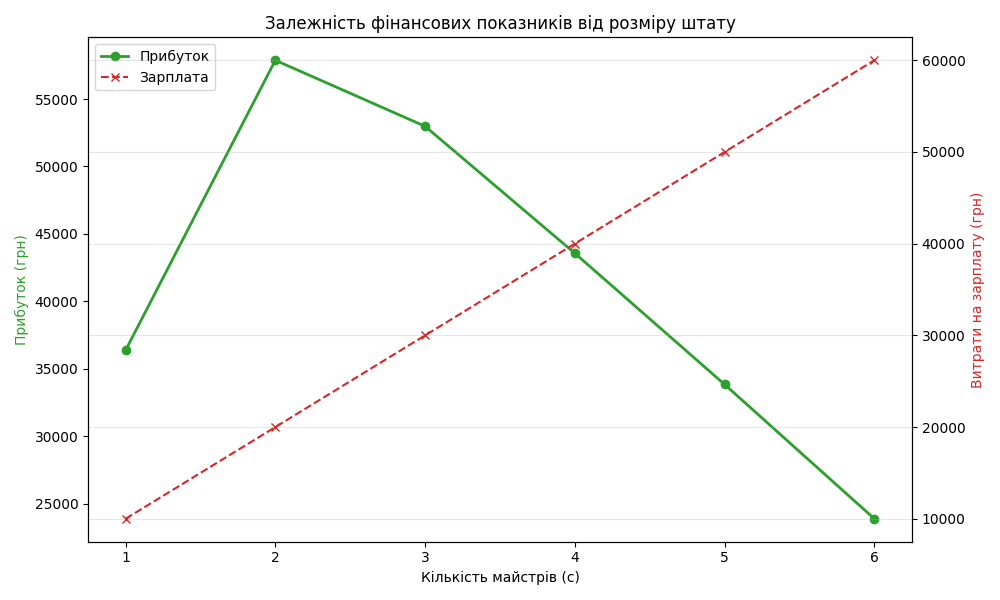
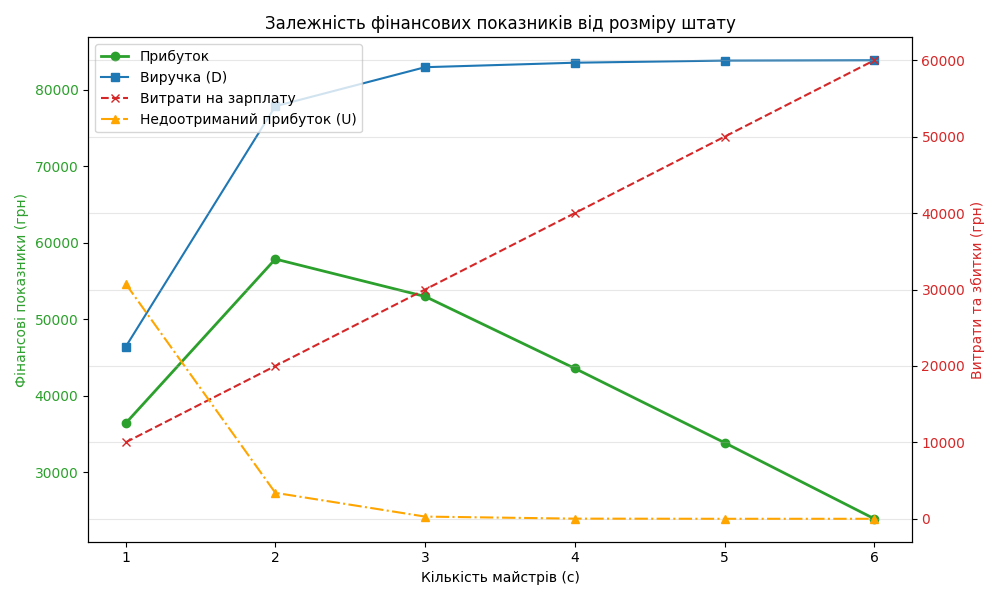
fixes

diff --git a/vizualize.py b/vizualize.py
@@ -130,8 +130,8 @@ def plot_lost_hourly(lost_hourly_df):
     
     plt.bar(x - width*1.5, lost_hourly_df['c=1'], width, label='1 майстер', color='salmon')
     plt.bar(x - width*0.5, lost_hourly_df['c=2'], width, label='2 майстри', color='skyblue')
-    plt.bar(x + width*0.5, lost_hourly_df['c=3'], width, label='3 майстри', color='mediumseagreen')
-    plt.bar(x + width*1.5, lost_hourly_df['c=4'], width, label='4 майстри', color='mediumpurple')
+    plt.bar(x + width*0.5, lost_hourly_df['c=3'], width, label='3 майстри', color='green')
+    plt.bar(x + width*1.5, lost_hourly_df['c=4'], width, label='4 майстри', color='purple')
     
     plt.title('Вузьке місце: У які години клієнти йдуть до конкурентів?')
     plt.xlabel('Година доби')
@@ -147,17 +147,19 @@ def plot_financials(summary_df):
     
     color = 'tab:green'
     ax1.set_xlabel('Кількість майстрів (c)')
-    ax1.set_ylabel('Прибуток (грн)', color=color)
+    ax1.set_ylabel('Фінансові показники (грн)', color=color)
     line1 = ax1.plot(summary_df['masters'], summary_df['profit'], color=color, marker='o', linewidth=2, label='Прибуток')
-    ax1.tick_params(axis='y')
+    line_rev = ax1.plot(summary_df['masters'], summary_df['revenue'], color='tab:blue', marker='s', label='Виручка (D)')
+    ax1.tick_params(axis='y', labelcolor=color)
     
     ax2 = ax1.twinx()
     color = 'tab:red'
-    ax2.set_ylabel('Витрати на зарплату (грн)', color=color)
-    line2 = ax2.plot(summary_df['masters'], summary_df['wages'], color=color, marker='x', linestyle='--', label='Зарплата')
-    ax2.tick_params(axis='y')
+    ax2.set_ylabel('Витрати та збитки (грн)', color=color)
+    line2 = ax2.plot(summary_df['masters'], summary_df['wages'], color=color, marker='x', linestyle='--', label='Витрати на зарплату')
+    line_lost = ax2.plot(summary_df['masters'], summary_df['lostProfit'], color='orange', marker='^', linestyle='-.', label='Недоотриманий прибуток (U)')
+    ax2.tick_params(axis='y', labelcolor=color)
     
-    lines = line1 + line2
+    lines = line1 + line_rev + line2 + line_lost
     labels = [l.get_label() for l in lines]
     ax1.legend(lines, labels, loc='upper left')
     

diff --git a/tables.py b/tables.py
@@ -29,7 +29,7 @@ def print_pretty_tables():
     try:
         df_matrix = pd.read_csv('experiments_matrix.csv')
         
-        base_queue = df_matrix[df_matrix['queueLimit'] == 6]
+        base_queue = df_matrix[df_matrix['queueLimit'] == 6].groupby(['lambda_multiplier', 'masters']).mean().reset_index()
         
         idx_max = base_queue.groupby('lambda_multiplier')['profit'].idxmax()
         optimal_table = base_queue.loc[idx_max, ['lambda_multiplier', 'masters', 'served', 'lost', 'profit', 'utilization']]
@@ -37,6 +37,7 @@ def print_pretty_tables():
         optimal_table.columns = ['Множник потоку (x)', 'Оптимум майстрів (c)', 'Обслуговано', 'Втрачено', 'Макс. прибуток (грн)', 'Завантаж.']
         print("Оптимальна кількість майстрів залежно від інтенсивності вхідного потоку (при m=6):")
         print(optimal_table.to_string(index=False))
+        
         
     except FileNotFoundError:
         print("Файл experiments_matrix.csv не знайдено. Спочатку запустіть simulation.py")
